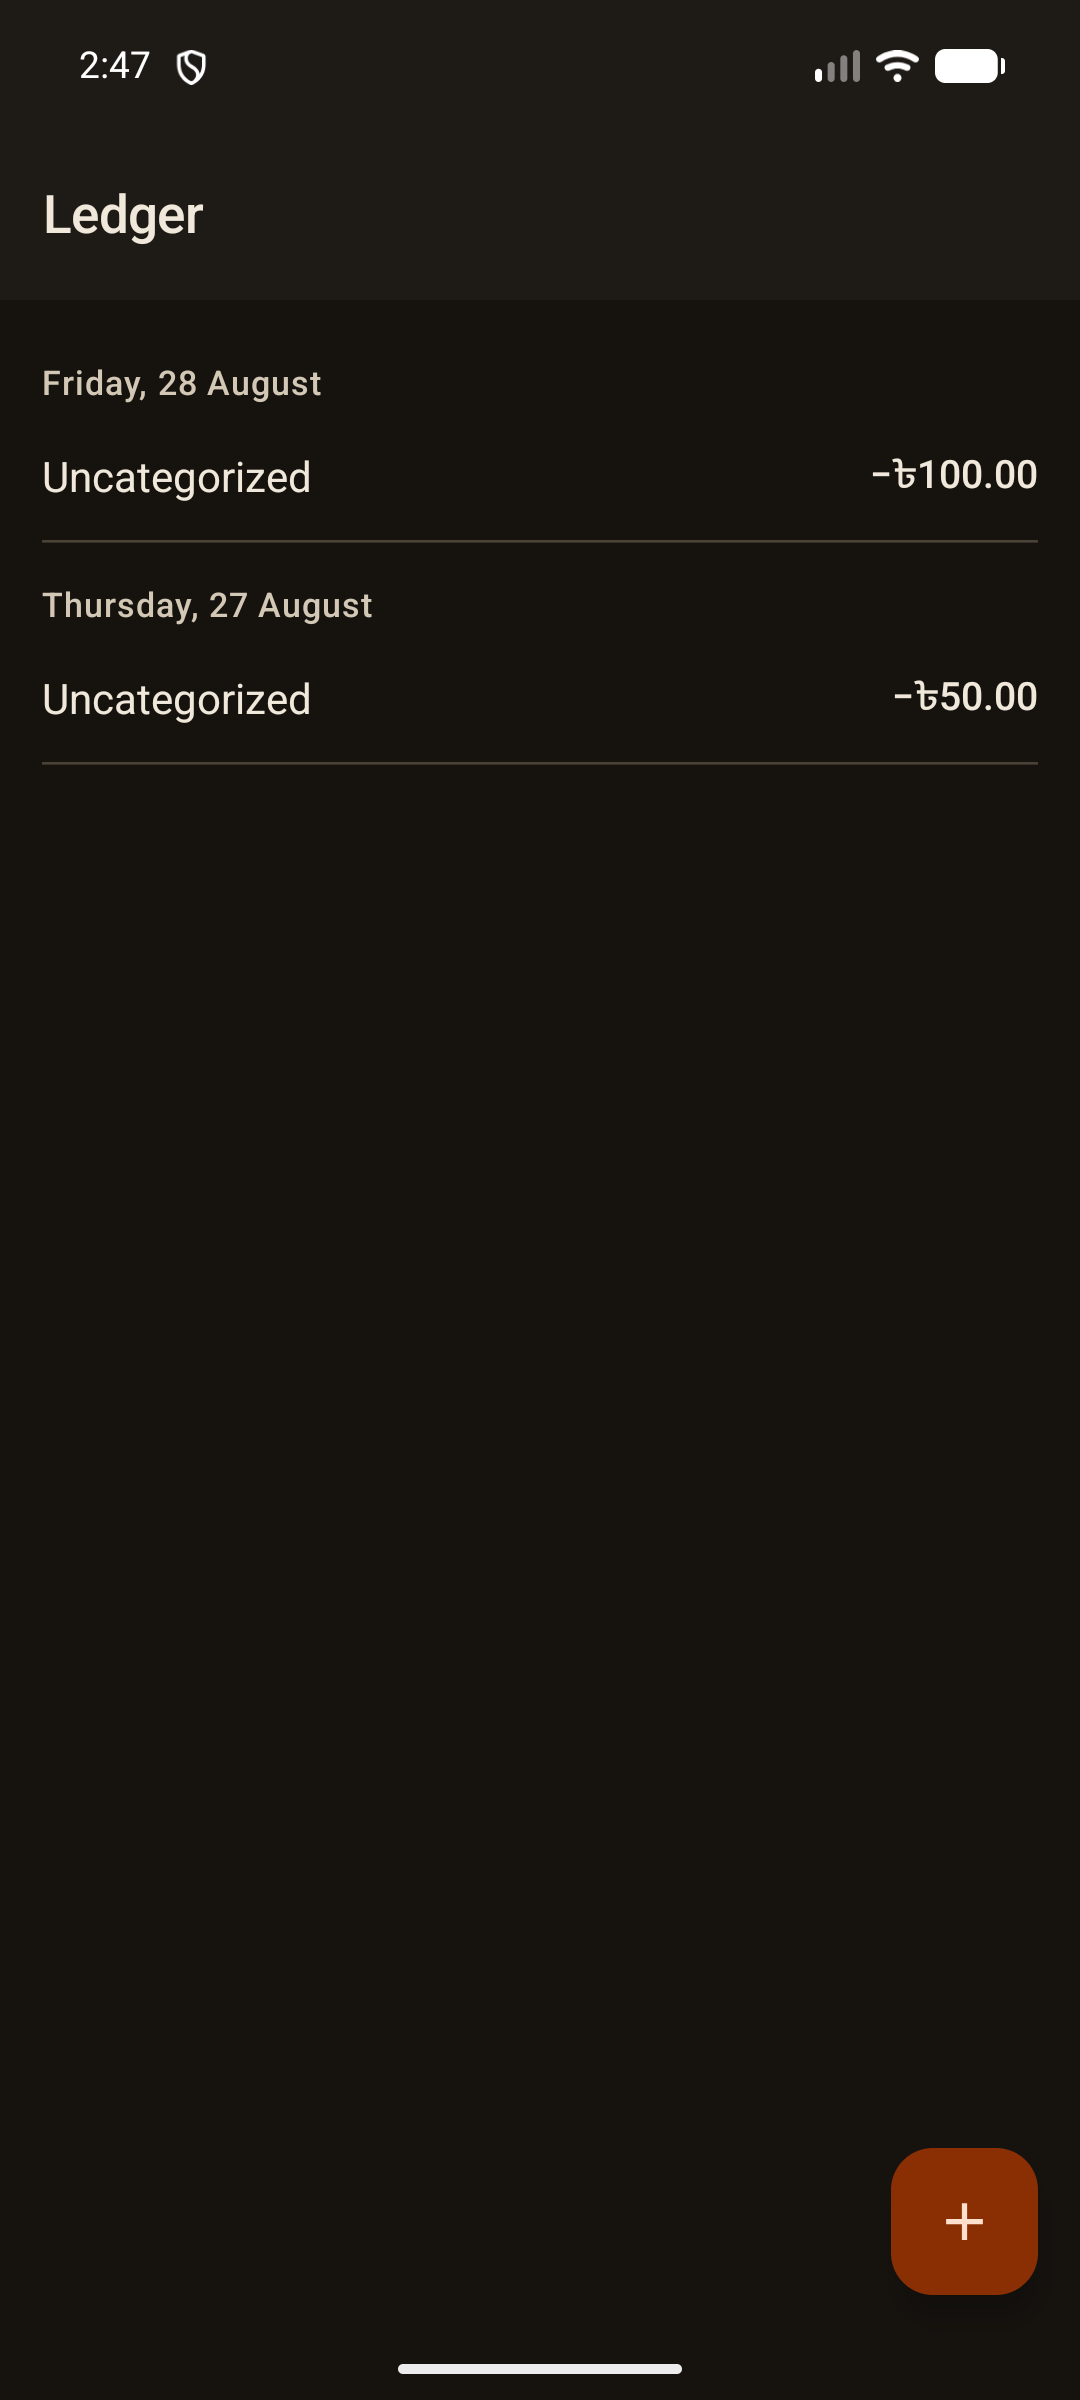
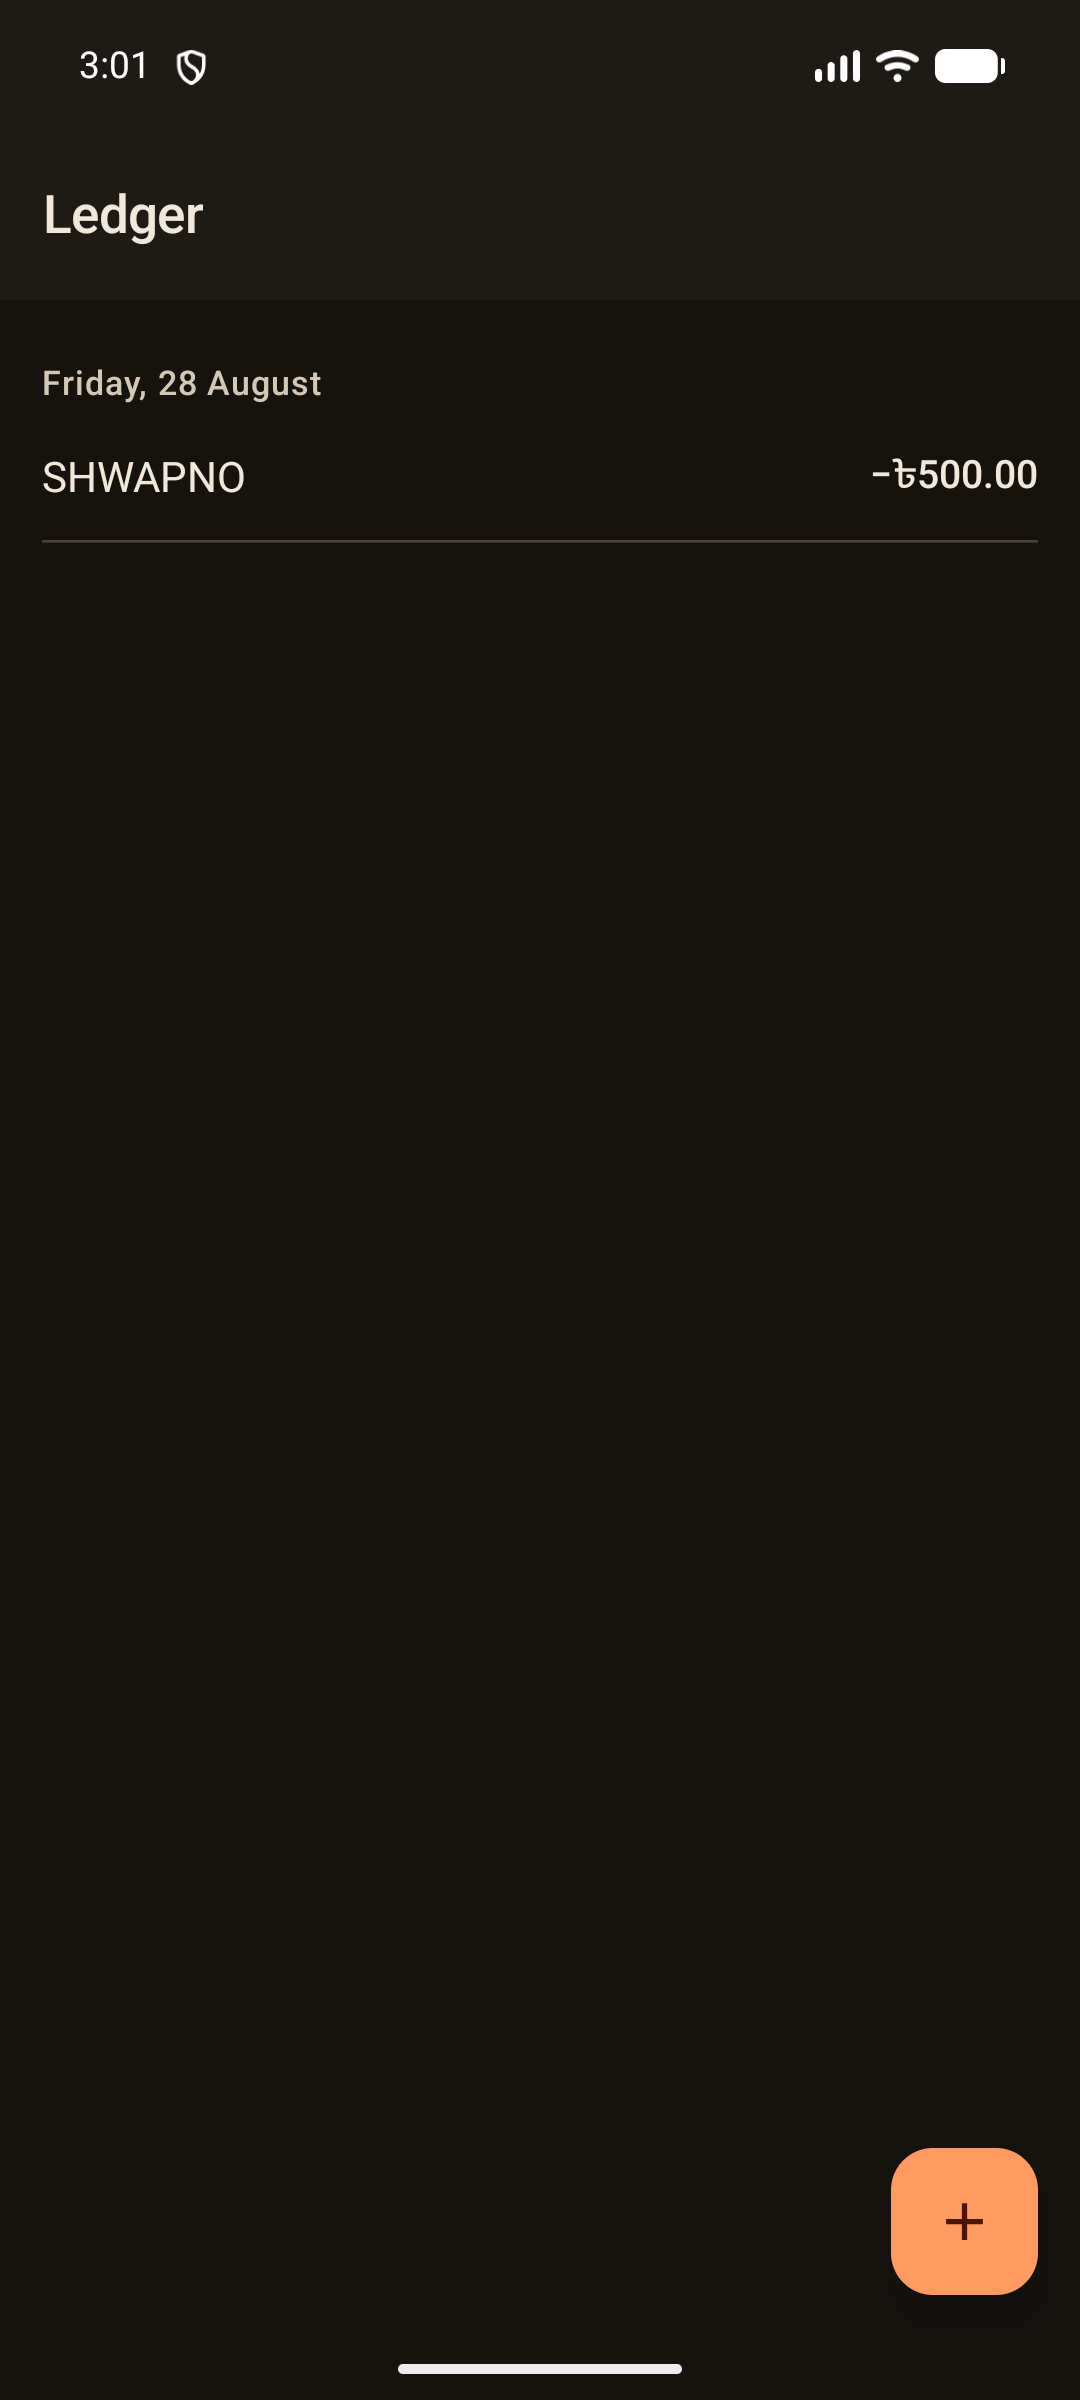
fix: correct FAB accent color, case-insensitive account/category ordering
- LedgerScreen: FAB now uses MaterialTheme.colorScheme.primary/onPrimary
  explicitly instead of M3's default primaryContainer, restoring it as
  the app's single saturated accent element.
- AccountDao/CategoryDao: ORDER BY name now uses COLLATE NOCASE so
  seeded accounts like bKash no longer sink below uppercase-leading
  names under SQLite's default BINARY collation. The transaction
  editor preselects accounts.firstOrNull(), so this also fixes it
  silently defaulting to Cash instead of bKash.
- Add AccountDaoTest proving observeAll() orders bKash, EBL, Cash as
  [bKash, Cash, EBL]; failed against the old ORDER BY name before the
  collation fix (RED), passes now (GREEN).
- Sync the plan doc's Task 10 TransactionEditorViewModel code block
  with the real source, which already carries
  @HiltViewModel(assistedFactory = ...) fixing the FAB-tap
  NoSuchMethodException crash found during Task 12 verification.
- Refresh docs/screenshots/plan1-ledger-populated.png,
  plan1-ledger-dark.png, plan1-editor.png to show the orange FAB and
  bKash preselected.

diff --git a/app/src/test/java/com/wasif/khata/core/data/AccountDaoTest.kt b/app/src/test/java/com/wasif/khata/core/data/AccountDaoTest.kt
@@ -1,0 +1,56 @@
+package com.wasif.khata.core.data
+
+import androidx.room.Room
+import androidx.test.core.app.ApplicationProvider
+import com.wasif.khata.core.data.entity.AccountEntity
+import com.wasif.khata.core.model.AccountType
+import kotlinx.coroutines.flow.first
+import kotlinx.coroutines.test.runTest
+import org.junit.After
+import org.junit.Assert.assertEquals
+import org.junit.Before
+import org.junit.Test
+import org.junit.runner.RunWith
+import org.robolectric.RobolectricTestRunner
+
+@RunWith(RobolectricTestRunner::class)
+class AccountDaoTest {
+
+    private lateinit var db: KhataDatabase
+
+    @Before
+    fun setUp() {
+        db = Room.inMemoryDatabaseBuilder(
+            ApplicationProvider.getApplicationContext(),
+            KhataDatabase::class.java,
+        ).allowMainThreadQueries().build()
+    }
+
+    @After
+    fun tearDown() = db.close()
+
+    private fun account(name: String, uuid: String) = AccountEntity(
+        uuid = uuid,
+        name = name,
+        type = AccountType.MFS,
+        openingBalanceMinor = 0,
+        currentBalanceMinor = 0,
+        reportedBalanceMinor = null,
+        reportedBalanceAt = null,
+        includeInNetWorth = true,
+        smsIdentifiers = name,
+        createdAt = 1000,
+        updatedAt = 1000,
+    )
+
+    @Test
+    fun `observeAll orders account names case-insensitively`() = runTest {
+        db.accountDao().upsert(account("bKash", uuid = "acc-bkash"))
+        db.accountDao().upsert(account("EBL", uuid = "acc-ebl"))
+        db.accountDao().upsert(account("Cash", uuid = "acc-cash"))
+
+        val names = db.accountDao().observeAll().first().map { it.name }
+
+        assertEquals(listOf("bKash", "Cash", "EBL"), names)
+    }
+}

diff --git a/app/src/main/java/com/wasif/khata/core/data/dao/AccountDao.kt b/app/src/main/java/com/wasif/khata/core/data/dao/AccountDao.kt
@@ -12,10 +12,10 @@ interface AccountDao {
     @Upsert
     suspend fun upsert(entity: AccountEntity): Long
 
-    @Query("SELECT * FROM accounts WHERE deletedAt IS NULL ORDER BY name")
+    @Query("SELECT * FROM accounts WHERE deletedAt IS NULL ORDER BY name COLLATE NOCASE")
     fun observeAll(): Flow<List<AccountEntity>>
 
-    @Query("SELECT * FROM accounts WHERE deletedAt IS NULL ORDER BY name")
+    @Query("SELECT * FROM accounts WHERE deletedAt IS NULL ORDER BY name COLLATE NOCASE")
     suspend fun getAll(): List<AccountEntity>
 
     @Query("SELECT COUNT(*) FROM accounts")

diff --git a/app/src/main/java/com/wasif/khata/feature/ledger/LedgerScreen.kt b/app/src/main/java/com/wasif/khata/feature/ledger/LedgerScreen.kt
@@ -61,7 +61,11 @@ fun LedgerContent(
     Scaffold(
         topBar = { TopAppBar(title = { Text("Ledger") }) },
         floatingActionButton = {
-            FloatingActionButton(onClick = onAddTransaction) {
+            FloatingActionButton(
+                onClick = onAddTransaction,
+                containerColor = MaterialTheme.colorScheme.primary,
+                contentColor = MaterialTheme.colorScheme.onPrimary,
+            ) {
                 Icon(Icons.Filled.Add, contentDescription = "Add transaction")
             }
         },

diff --git a/app/src/main/java/com/wasif/khata/core/data/dao/CategoryDao.kt b/app/src/main/java/com/wasif/khata/core/data/dao/CategoryDao.kt
@@ -15,7 +15,7 @@ interface CategoryDao {
     @Upsert
     suspend fun upsertAll(entities: List<CategoryEntity>)
 
-    @Query("SELECT * FROM categories WHERE deletedAt IS NULL ORDER BY name")
+    @Query("SELECT * FROM categories WHERE deletedAt IS NULL ORDER BY name COLLATE NOCASE")
     fun observeAll(): Flow<List<CategoryEntity>>
 
     @Query("SELECT COUNT(*) FROM categories")

diff --git a/docs/superpowers/plans/2026-08-26-khata-foundation-ledger.md b/docs/superpowers/plans/2026-08-26-khata-foundation-ledger.md
@@ -3375,6 +3375,7 @@ import com.wasif.khata.domain.repository.TransactionRepository
 import dagger.assisted.Assisted
 import dagger.assisted.AssistedFactory
 import dagger.assisted.AssistedInject
+import dagger.hilt.android.lifecycle.HiltViewModel
 import kotlinx.coroutines.channels.Channel
 import kotlinx.coroutines.flow.MutableStateFlow
 import kotlinx.coroutines.flow.StateFlow
@@ -3383,6 +3384,10 @@ import kotlinx.coroutines.flow.receiveAsFlow
 import kotlinx.coroutines.flow.update
 import kotlinx.coroutines.launch
 
+// Hilt needs the assisted factory named here to resolve hiltViewModel's
+// generic <VM, VMF> overload; without it, injection silently falls back
+// to a no-arg constructor and crashes at runtime.
+@HiltViewModel(assistedFactory = TransactionEditorViewModel.Factory::class)
 class TransactionEditorViewModel @AssistedInject constructor(
     private val repository: TransactionRepository,
     private val referenceData: ReferenceDataRepository,
